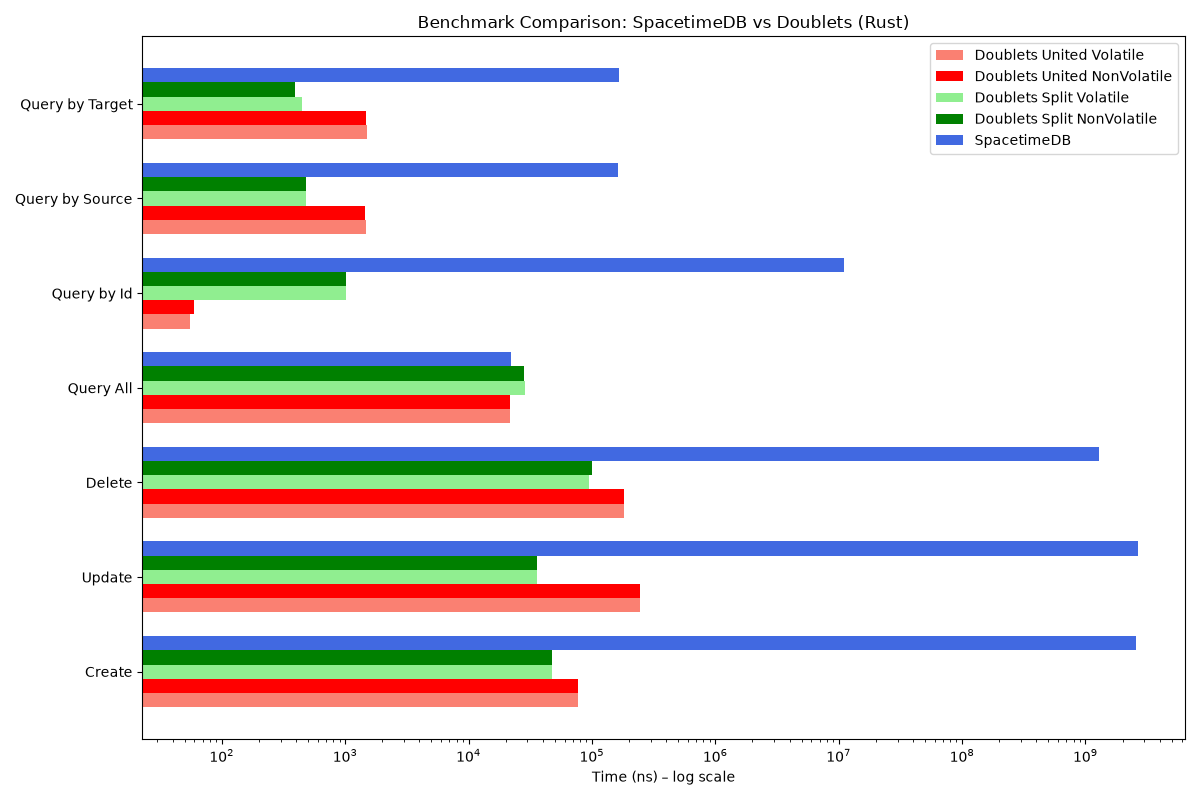
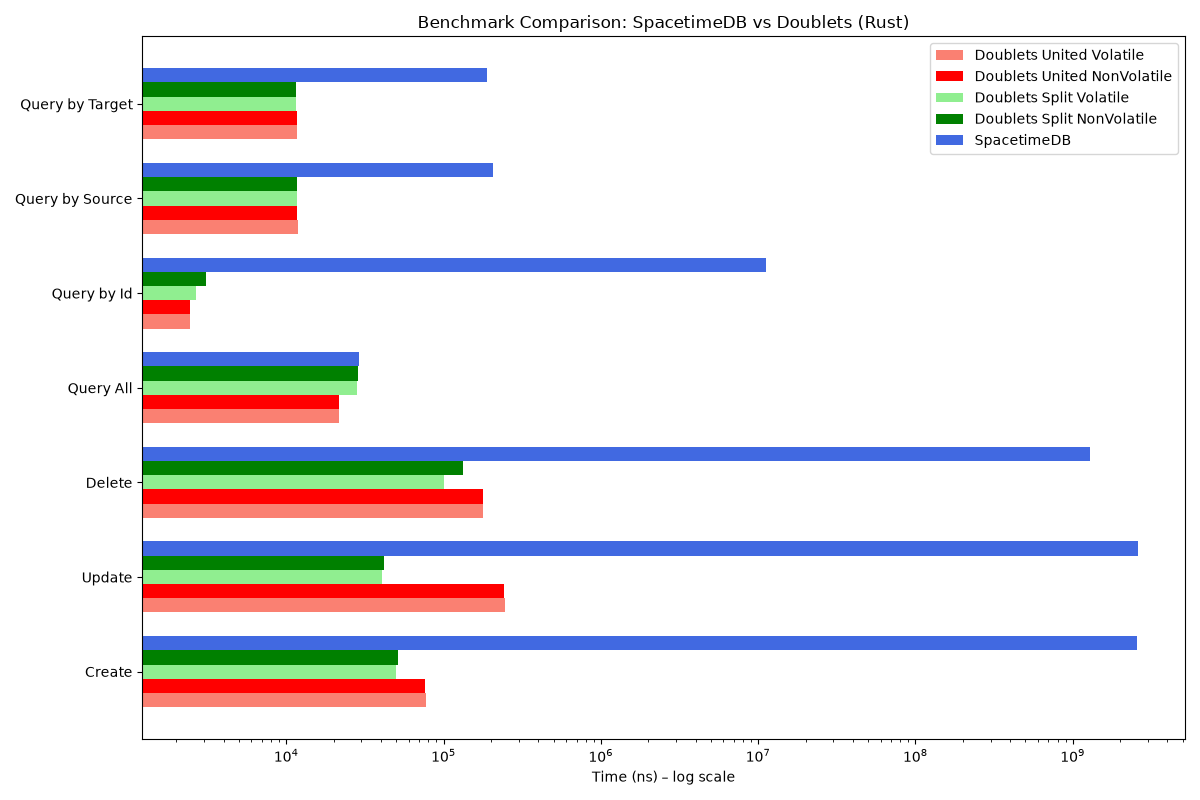
Update benchmark results [skip ci]

diff --git a/README.md b/README.md
@@ -64,21 +64,17 @@ the benchmark locally.
 ### Rust results
 
 <!--BENCHMARK_RESULTS_START-->
-The committed Rust measurements below are historical (2026-09-16), before the
-query dataset and optimizer fixes in issue #16. Their CPU was not recorded.
-A full run on the default branch replaces them with current measurements.
-
-_Generated 2026-09-16 09:20 UTC by [GitHub Actions run 35075414684](https://github.com/linksplatform/Comparisons.SpacetimeDBVSDoublets/actions/runs/35075414684) — 1000 benchmarked links, 3000 background links. SpacetimeDB server/CLI unknown (not recorded); Rust SDK 2.10.1 (lockfile); Doublets (patched) 0.1.0-pre+beta.15; CPU — historical run: unknown (not recorded)._
+_Generated 2026-10-07 00:04 UTC by [GitHub Actions run 37549640595](https://github.com/linksplatform/Comparisons.SpacetimeDBVSDoublets/actions/runs/37549640595) — 1000 benchmarked links, 3000 background links. Rust SDK 2.10.1; Doublets (patched) 0.1.0-pre+beta.15; SpacetimeDB module 2.10.1; SpacetimeDB server/CLI 2.10.1; CPU — spacetimedb: AMD EPYC 7763 64-Core Processor; doublets: AMD EPYC 7763 64-Core Processor._
 
 | Operation       | Doublets United Volatile | Doublets United NonVolatile | Doublets Split Volatile | Doublets Split NonVolatile | SpacetimeDB   |
 |-----------------|--------------------------|-----------------------------|-------------------------|----------------------------|---------------|
-| Create          | 76.7 µs (33,385× faster) | 76.6 µs (33,438× faster)    | 47.1 µs (54,356× faster) | 47.4 µs (54,020× faster)   | 2.56 s        |
-| Update          | 247 µs (10,703× faster)  | 247 µs (10,707× faster)     | 35.8 µs (73,838× faster) | 36.0 µs (73,408× faster)   | 2.64 s        |
-| Delete          | 180 µs (7,169× faster)   | 181 µs (7,125× faster)      | 94.1 µs (13,732× faster) | 100 µs (12,906× faster)    | 1.29 s        |
-| Query All       | 21.6 µs (≈ same)         | 21.6 µs (≈ same)            | 28.4 µs (1.28× slower)  | 28.3 µs (1.28× slower)     | 22.1 µs       |
-| Query by Id     | 55.0 ns (198,863× faster) | 59.0 ns (185,381× faster)   | 1.02 µs (10,744× faster) | 1.02 µs (10,744× faster)   | 10.9 ms       |
-| Query by Source | 1.48 µs (111× faster)    | 1.45 µs (113× faster)       | 480 ns (341× faster)    | 478 ns (342× faster)       | 164 µs        |
-| Query by Target | 1.51 µs (109× faster)    | 1.48 µs (112× faster)       | 445 ns (372× faster)    | 393 ns (421× faster)       | 165 µs        |
+| Create          | 76.9 µs (33,383× faster) | 76.5 µs (33,540× faster)    | 49.9 µs (51,405× faster) | 51.2 µs (50,116× faster)   | 2.57 s        |
+| Update          | 244 µs (10,581× faster)  | 242 µs (10,697× faster)     | 40.4 µs (63,999× faster) | 41.5 µs (62,213× faster)   | 2.58 s        |
+| Delete          | 179 µs (7,243× faster)   | 177 µs (7,286× faster)      | 99.9 µs (12,942× faster) | 134 µs (9,679× faster)     | 1.29 s        |
+| Query All       | 21.6 µs (≈ same)         | 21.5 µs (≈ same)            | 28.3 µs (≈ same)        | 28.5 µs (≈ same)           | 28.9 µs       |
+| Query by Id     | 2.44 µs (4,602× faster)  | 2.45 µs (4,582× faster)     | 2.67 µs (4,194× faster) | 3.07 µs (3,651× faster)    | 11.2 ms       |
+| Query by Source | 11.8 µs (17.3× faster)   | 11.6 µs (17.6× faster)      | 11.7 µs (17.6× faster)  | 11.8 µs (17.4× faster)     | 205 µs        |
+| Query by Target | 11.6 µs (16.3× faster)   | 11.8 µs (16.1× faster)      | 11.5 µs (16.5× faster)  | 11.5 µs (16.5× faster)     | 190 µs        |
 <!--BENCHMARK_RESULTS_END-->
 
 ### C#
@@ -97,8 +93,20 @@ Calibration includes setup/reset wall time; reported samples include only the
 operation. This avoids excessive query sampling when setup involves network calls.
 
 <!--CSHARP_RESULTS_START-->
-_No C# measurements published yet. CI validates the reduced workload on this PR;
-the first full default-branch run publishes this table and both C# charts._
+_Generated 2026-10-07 00:04 UTC by [GitHub Actions run 37549640595](https://github.com/linksplatform/Comparisons.SpacetimeDBVSDoublets/actions/runs/37549640595) — 1000 benchmarked links, 3000 background links. SpacetimeDB.ClientSDK 2.10.1; Platform.Data.Doublets 0.18.1; SpacetimeDB module 2.10.1; SpacetimeDB server/CLI 2.10.1; CPU — spacetimedb: AMD EPYC 7763 64-Core Processor; doublets: AMD EPYC 7763 64-Core Processor._
+
+| Operation       | Doublets United Volatile | Doublets United NonVolatile | Doublets Split Volatile | Doublets Split NonVolatile | SpacetimeDB   |
+|-----------------|--------------------------|-----------------------------|-------------------------|----------------------------|---------------|
+| Create          | 593 µs (4,304× faster)   | 595 µs (4,294× faster)      | 195 µs (13,070× faster) | 203 µs (12,565× faster)    | 2.55 s        |
+| Update          | 788 µs (3,275× faster)   | 791 µs (3,264× faster)      | 129 µs (20,002× faster) | 128 µs (20,108× faster)    | 2.58 s        |
+| Delete          | 325 µs (3,927× faster)   | 329 µs (3,881× faster)      | 180 µs (7,088× faster)  | 189 µs (6,754× faster)     | 1.28 s        |
+| Query All       | 139 µs (≈ same)          | 173 µs (≈ same)             | 119 µs (≈ same)         | 119 µs (≈ same)            | 337 µs        |
+| Query by Id     | 114 µs (108× faster)     | 114 µs (108× faster)        | 126 µs (97.7× faster)   | 126 µs (98.3× faster)      | 12.3 ms       |
+| Query by Source | 28.7 µs (≈ same)         | 28.6 µs (≈ same)            | 23.3 µs (≈ same)        | 22.7 µs (≈ same)           | 342 µs        |
+| Query by Target | 38.5 µs (10.5× faster)   | 38.6 µs (10.5× faster)      | 25.5 µs (15.8× faster)  | 25.7 µs (15.7× faster)     | 404 µs        |
+
+![C# benchmark (linear scale)](docs/benchmarks/bench_csharp.png)
+![C# benchmark (log scale)](docs/benchmarks/bench_csharp_log_scale.png)
 <!--CSHARP_RESULTS_END-->
 
 Each language/backend runs on a separate VM. The line above each generated table

diff --git a/rust/results.md b/rust/results.md
@@ -1,11 +1,11 @@
-_Generated 2026-09-16 09:20 UTC by [GitHub Actions run 35075414684](https://github.com/linksplatform/Comparisons.SpacetimeDBVSDoublets/actions/runs/35075414684) — 1000 benchmarked links, 3000 background links. SpacetimeDB server/CLI unknown (not recorded); Rust SDK 2.10.1 (lockfile); Doublets (patched) 0.1.0-pre+beta.15; CPU — historical run: unknown (not recorded)._
+_Generated 2026-10-07 00:04 UTC by [GitHub Actions run 37549640595](https://github.com/linksplatform/Comparisons.SpacetimeDBVSDoublets/actions/runs/37549640595) — 1000 benchmarked links, 3000 background links. Rust SDK 2.10.1; Doublets (patched) 0.1.0-pre+beta.15; SpacetimeDB module 2.10.1; SpacetimeDB server/CLI 2.10.1; CPU — spacetimedb: AMD EPYC 7763 64-Core Processor; doublets: AMD EPYC 7763 64-Core Processor._
 
 | Operation       | Doublets United Volatile | Doublets United NonVolatile | Doublets Split Volatile | Doublets Split NonVolatile | SpacetimeDB   |
 |-----------------|--------------------------|-----------------------------|-------------------------|----------------------------|---------------|
-| Create          | 76.7 µs (33,385× faster) | 76.6 µs (33,438× faster)    | 47.1 µs (54,356× faster) | 47.4 µs (54,020× faster)   | 2.56 s        |
-| Update          | 247 µs (10,703× faster)  | 247 µs (10,707× faster)     | 35.8 µs (73,838× faster) | 36.0 µs (73,408× faster)   | 2.64 s        |
-| Delete          | 180 µs (7,169× faster)   | 181 µs (7,125× faster)      | 94.1 µs (13,732× faster) | 100 µs (12,906× faster)    | 1.29 s        |
-| Query All       | 21.6 µs (≈ same)         | 21.6 µs (≈ same)            | 28.4 µs (1.28× slower)  | 28.3 µs (1.28× slower)     | 22.1 µs       |
-| Query by Id     | 55.0 ns (198,863× faster) | 59.0 ns (185,381× faster)   | 1.02 µs (10,744× faster) | 1.02 µs (10,744× faster)   | 10.9 ms       |
-| Query by Source | 1.48 µs (111× faster)    | 1.45 µs (113× faster)       | 480 ns (341× faster)    | 478 ns (342× faster)       | 164 µs        |
-| Query by Target | 1.51 µs (109× faster)    | 1.48 µs (112× faster)       | 445 ns (372× faster)    | 393 ns (421× faster)       | 165 µs        |
+| Create          | 76.9 µs (33,383× faster) | 76.5 µs (33,540× faster)    | 49.9 µs (51,405× faster) | 51.2 µs (50,116× faster)   | 2.57 s        |
+| Update          | 244 µs (10,581× faster)  | 242 µs (10,697× faster)     | 40.4 µs (63,999× faster) | 41.5 µs (62,213× faster)   | 2.58 s        |
+| Delete          | 179 µs (7,243× faster)   | 177 µs (7,286× faster)      | 99.9 µs (12,942× faster) | 134 µs (9,679× faster)     | 1.29 s        |
+| Query All       | 21.6 µs (≈ same)         | 21.5 µs (≈ same)            | 28.3 µs (≈ same)        | 28.5 µs (≈ same)           | 28.9 µs       |
+| Query by Id     | 2.44 µs (4,602× faster)  | 2.45 µs (4,582× faster)     | 2.67 µs (4,194× faster) | 3.07 µs (3,651× faster)    | 11.2 ms       |
+| Query by Source | 11.8 µs (17.3× faster)   | 11.6 µs (17.6× faster)      | 11.7 µs (17.6× faster)  | 11.8 µs (17.4× faster)     | 205 µs        |
+| Query by Target | 11.6 µs (16.3× faster)   | 11.8 µs (16.1× faster)      | 11.5 µs (16.5× faster)  | 11.5 µs (16.5× faster)     | 190 µs        |

diff --git a/csharp/results.md b/csharp/results.md
@@ -1,0 +1,11 @@
+_Generated 2026-10-07 00:04 UTC by [GitHub Actions run 37549640595](https://github.com/linksplatform/Comparisons.SpacetimeDBVSDoublets/actions/runs/37549640595) — 1000 benchmarked links, 3000 background links. SpacetimeDB.ClientSDK 2.10.1; Platform.Data.Doublets 0.18.1; SpacetimeDB module 2.10.1; SpacetimeDB server/CLI 2.10.1; CPU — spacetimedb: AMD EPYC 7763 64-Core Processor; doublets: AMD EPYC 7763 64-Core Processor._
+
+| Operation       | Doublets United Volatile | Doublets United NonVolatile | Doublets Split Volatile | Doublets Split NonVolatile | SpacetimeDB   |
+|-----------------|--------------------------|-----------------------------|-------------------------|----------------------------|---------------|
+| Create          | 593 µs (4,304× faster)   | 595 µs (4,294× faster)      | 195 µs (13,070× faster) | 203 µs (12,565× faster)    | 2.55 s        |
+| Update          | 788 µs (3,275× faster)   | 791 µs (3,264× faster)      | 129 µs (20,002× faster) | 128 µs (20,108× faster)    | 2.58 s        |
+| Delete          | 325 µs (3,927× faster)   | 329 µs (3,881× faster)      | 180 µs (7,088× faster)  | 189 µs (6,754× faster)     | 1.28 s        |
+| Query All       | 139 µs (≈ same)          | 173 µs (≈ same)             | 119 µs (≈ same)         | 119 µs (≈ same)            | 337 µs        |
+| Query by Id     | 114 µs (108× faster)     | 114 µs (108× faster)        | 126 µs (97.7× faster)   | 126 µs (98.3× faster)      | 12.3 ms       |
+| Query by Source | 28.7 µs (≈ same)         | 28.6 µs (≈ same)            | 23.3 µs (≈ same)        | 22.7 µs (≈ same)           | 342 µs        |
+| Query by Target | 38.5 µs (10.5× faster)   | 38.6 µs (10.5× faster)      | 25.5 µs (15.8× faster)  | 25.7 µs (15.7× faster)     | 404 µs        |
